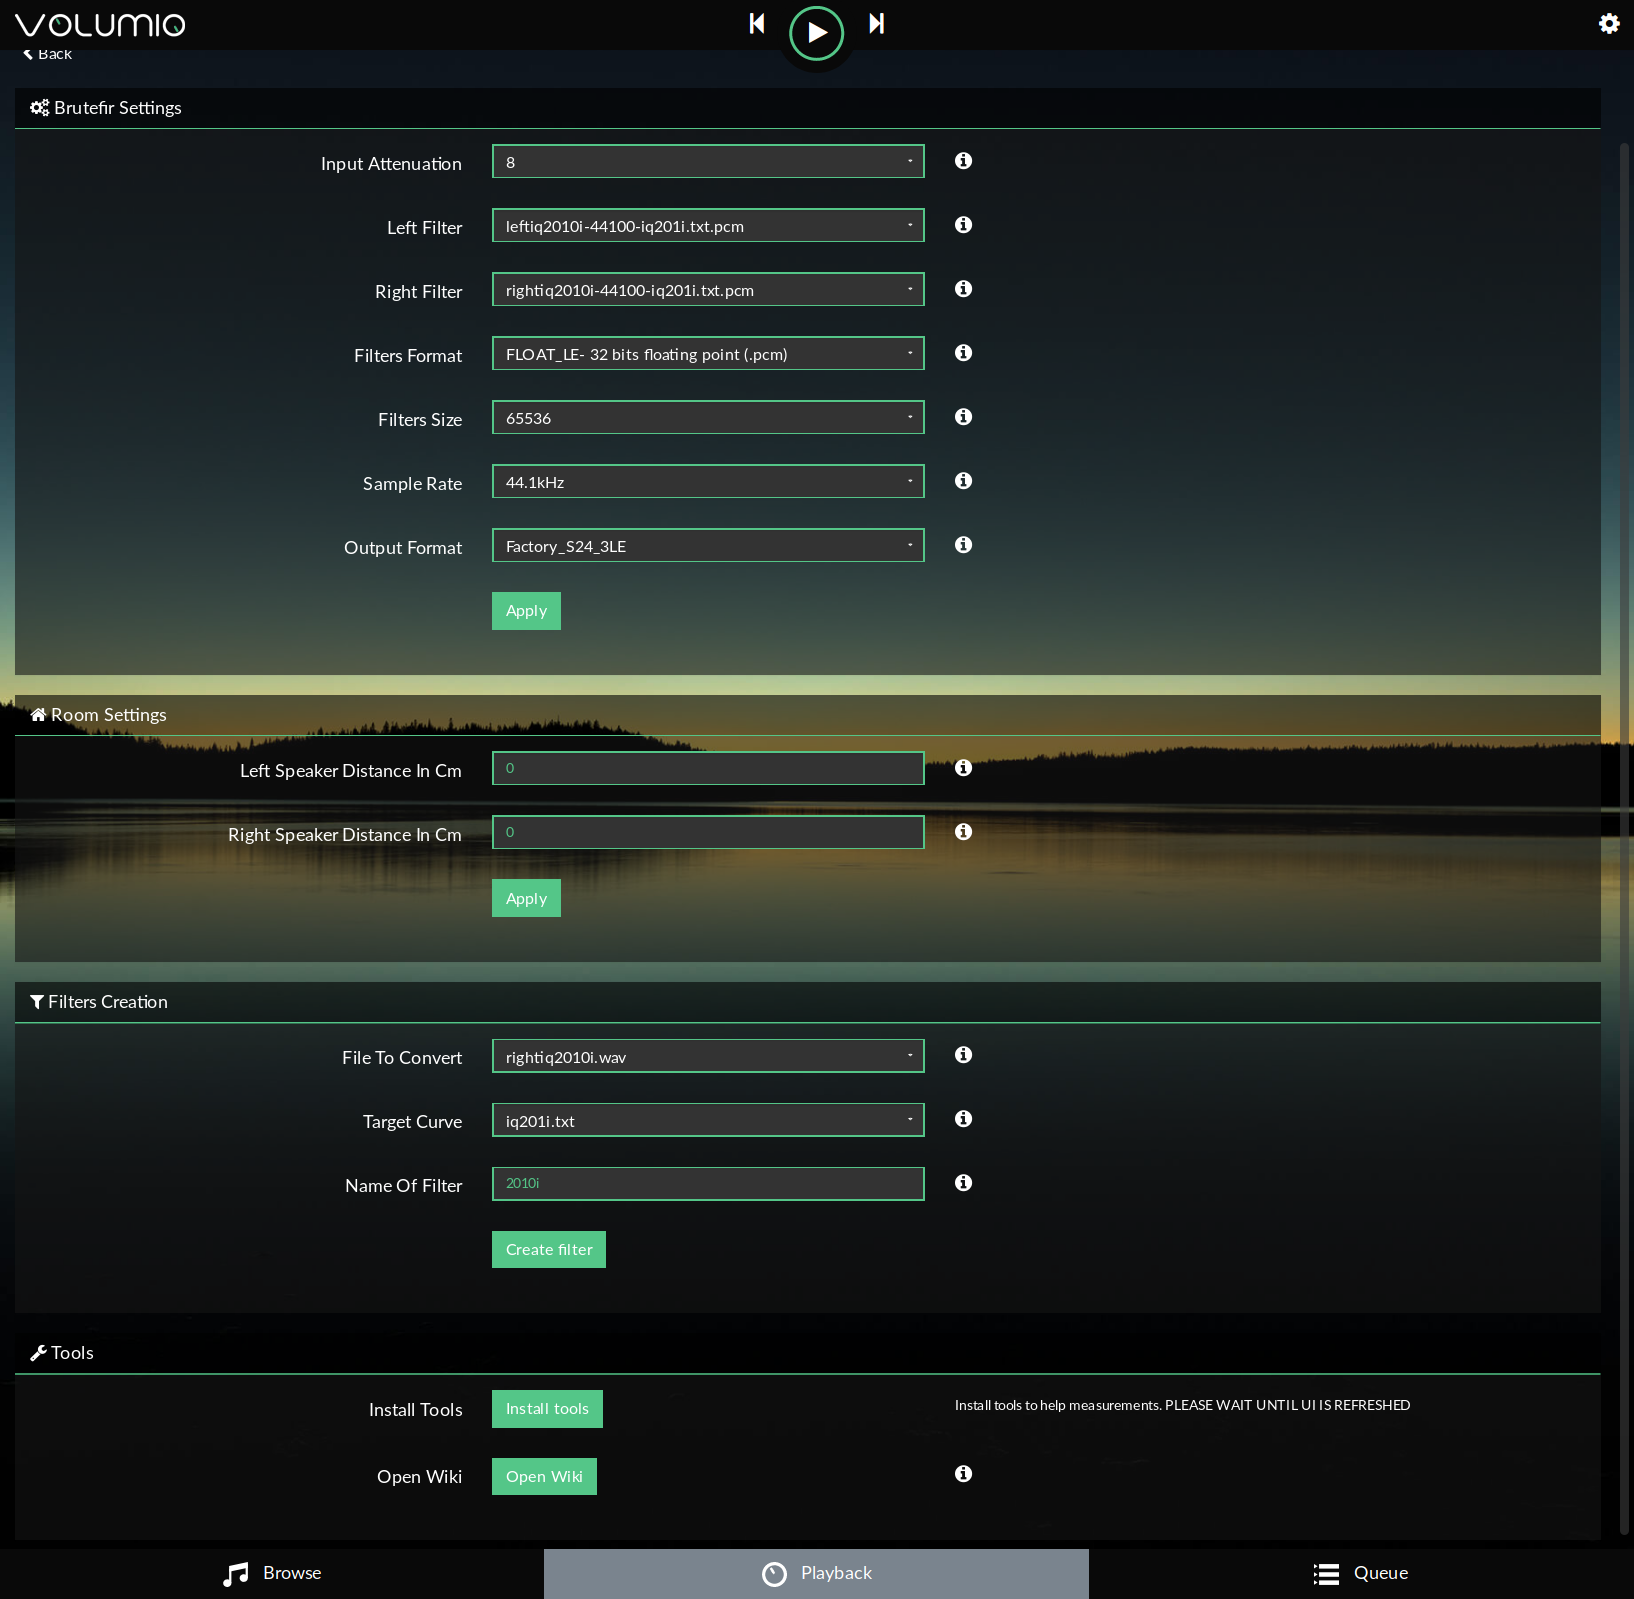
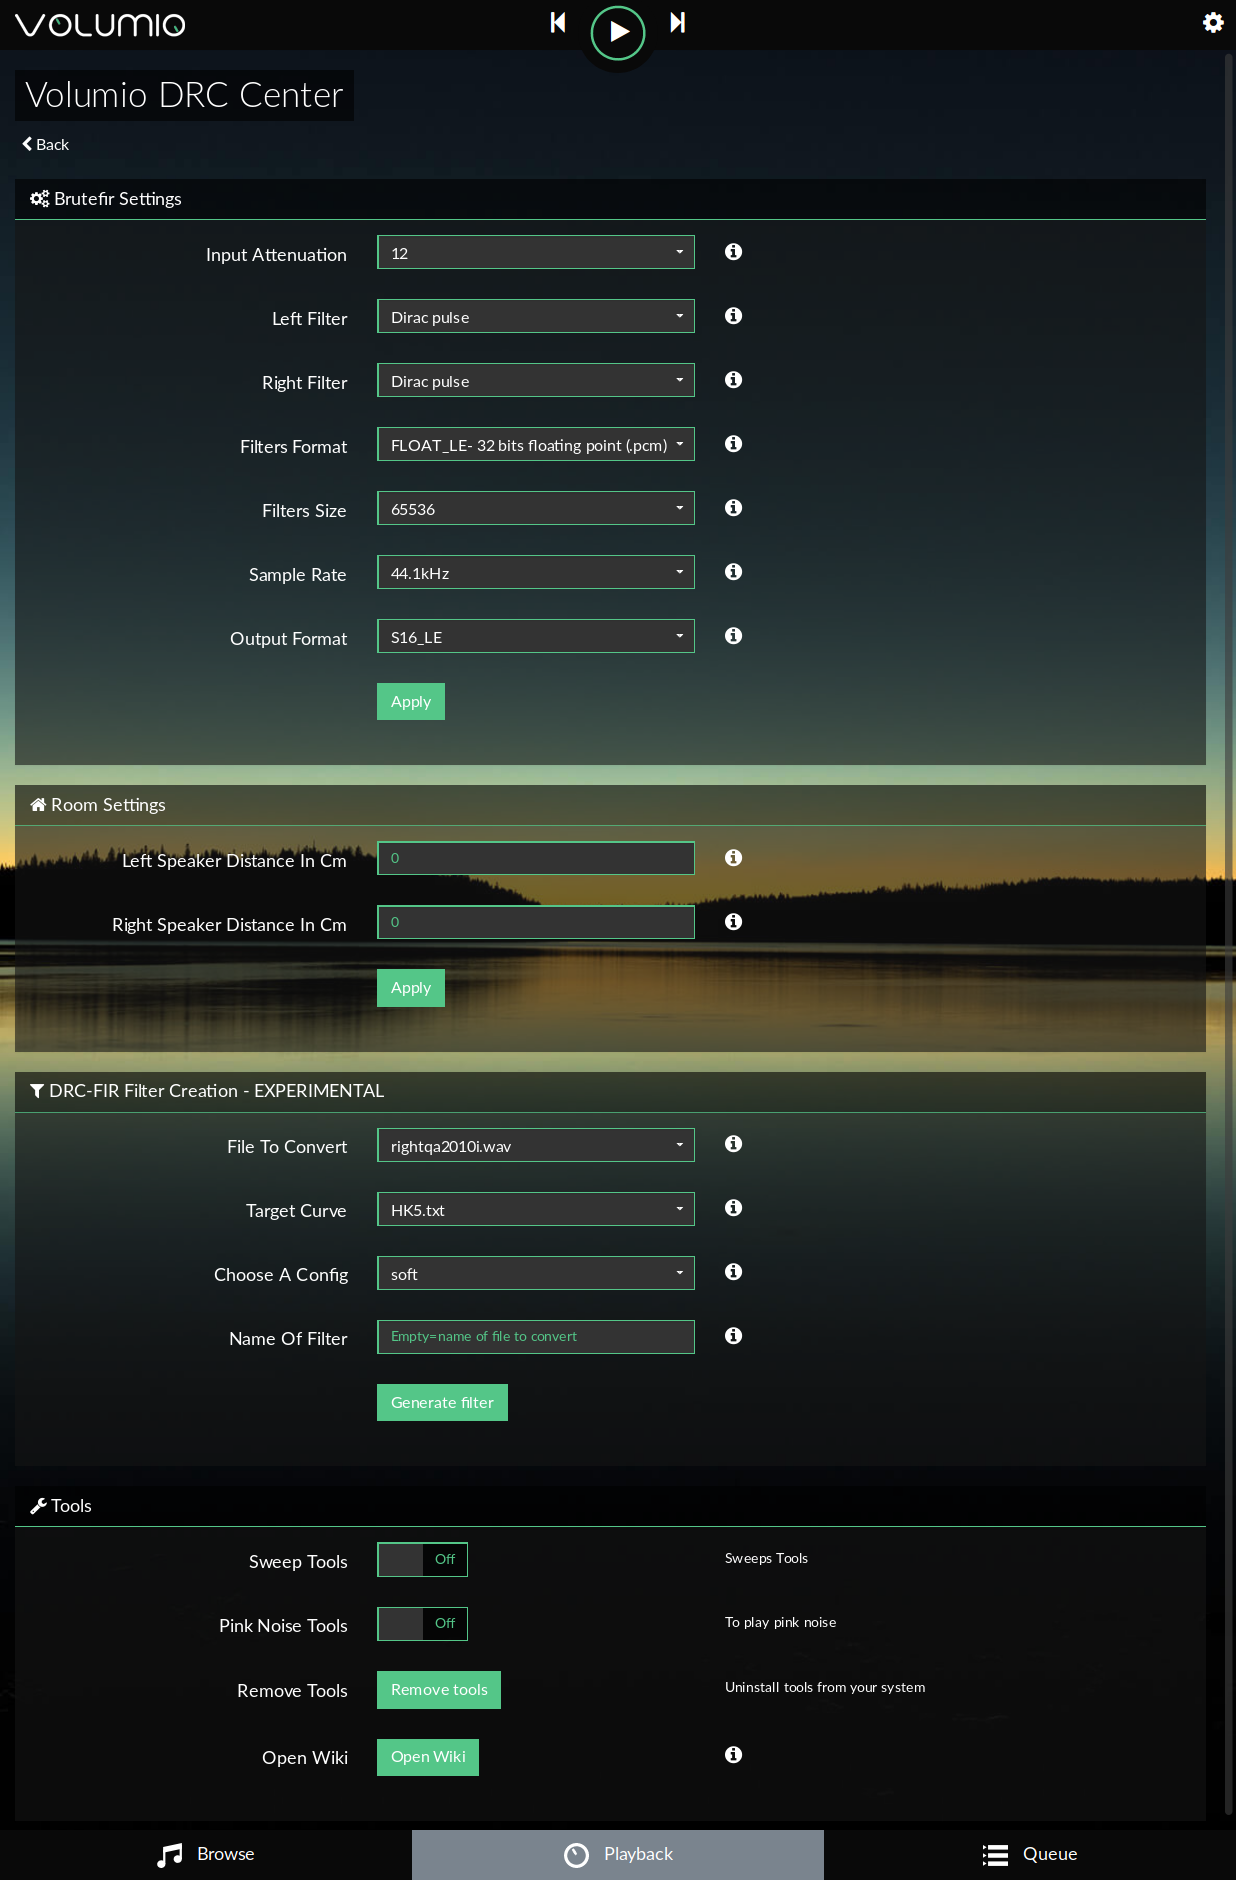
brutefir - filters creation

diff --git a/docs/06_Plugins_User_Manuals/00_brutefir/03_Making_filters.md b/docs/06_Plugins_User_Manuals/00_brutefir/03_Making_filters.md
@@ -1,6 +1,11 @@
 ## Making Filters
 
-When measurement(s) is exported you have 2 possibilities. You can create initial EQ filter in REW and import it into rePhase as a starting point or you can directly go in rephase and start creating filter from scratch.
+When measurement(s) is exported, as we seen, you have severals possibilities.
+- __Variant 1__ Create initial EQ filter in REW and import it into rePhase as a starting point
+- __Variant 2__ Go in rephase and start creating filter from scratch.
+- __Variant 3__ Use the filter creation tools from the plugin and create filter using DRC-FIR.
+
+__General tips__
 
 For best results with Volumio and BruteFIR I recommend sampling rate of __96000__ and __65536__ filtersize/taps.
 
@@ -23,7 +28,7 @@ When doing EQ in rePhase try to follow these simple guidelines:
 
 * On the right side of EQ window under Equaliser choose `rePhase`
 
-* Under Target settings configure settings for your speakers
+* Under Target settings configure settings for your speakers.
 
 * Under Target settings press`Set target level` to have REW set the target level or configure it manually
 
@@ -55,5 +60,38 @@ When doing EQ in rePhase try to follow these simple guidelines:
 * Hit `generate` to generate and save FIR filter
 
 * Save your work under `File/Save settings`
+
+### Variant 3 : Using DRC-FIR tools from the plugin
+
+Creating filter with automatic tools in the plugin is easy. You have too put the exported impluse from REW in the shared folder of Volumio.
+
+From your Windows files explorer, access to it by typing `file://ipadressofvolumio`
+
+Then, go in `brutefirfilter/filter-sources` and put your Wav file here.
+
+Go in the plugin setting page and in filter creation section, choose the file as file to convert.
+
+Choose a target curve. 2 samples are provided with the plugin.
+This file define how the corrected curve should look like. You can create or adjust one of the sample given.
+These files are placed in shared folder of Volumio under `brutefirfilter/target-sources`
+
+Choose a config.
+
+We advice to start with __'soft'__ and see how it behaves..
+
+You can give a name for your filter, or leaave empty the field to re-use the ipmort name.
+
+The plugin will add `samplerate+config+target-curves+.pcm` to the name.
+
+- So, if name is __left__ the generated filter will be __left-44.1kHz-soft-hk5.pcm__
+
+Sample rate is taken from the value set in the plugin.
+## Warning : Do not set above 96Khz
+
+Press `Create filter` and wait until the page is refreshed. Do the the samee for both channels.
+
+<img src="./img/filter-creation-menu.png">
+
+
 
 ### Now, get ready to test your filter!

diff --git a/docs/06_Plugins_User_Manuals/00_brutefir/01_Preparing_your_system.md b/docs/06_Plugins_User_Manuals/00_brutefir/01_Preparing_your_system.md
@@ -10,20 +10,23 @@ Try to play a track, if the music is playing, go to the next step.
 
 If an error occurs go in plugin settings
 
-__Main Interface__
+
+and try to change __output format__ . It is a DAC dependant parameter.
+
+
+__Main Interface of the plugin__
 
 <img src="./img/general_plugin_settings.png">
 _plugin main interface_
 
-and try to change __output format__ . It is a DAC dependant parameter.
-
 When it's ok, try to play a track.
 
-You can now test with a filter, just select __Left Filter__ and __Right filter__ in plugin settings with one of the provided filter:
+You can now test with a filter, just select __demo-left.txt__ and __demo-right.txt__ in plugin settings:
 (few filters to test are installed by the plugin, they are placed in `/data/INTERNAL/brutefirfilter`)
-* `demo-left ` and `demo-right`
 
 <img src="./img/select_filter.png">
+
+Select ```text- 32/64 bits floats line``` as filter format with these filters.
 
 and press `Apply` (It can be done while playing)
 

diff --git a/docs/06_Plugins_User_Manuals/00_brutefir/02_Making_Measurment.md b/docs/06_Plugins_User_Manuals/00_brutefir/02_Making_Measurment.md
@@ -1,18 +1,21 @@
-## Create your own filters
+## Making measurements
 
-There is sevral steps to do that :
+One of the first step to make DRC, is to have  a good measurement of caractheristic of your system.
+
+There is several steps to do that :
 
 * playing sweep file or pink noise using Tools in the plugin.
 * Recording signal while playing (with REW)
 
-
+__And__
 * Modifing the result (with REPHASE) and generating filters.
 
-__or__
+__OR__
 
 * Use filter creation in the plugin
 
 __And__
+
 * Using this filter in Volumio through the Brutefir plugin.
 
 

diff --git a/docs/06_Plugins_User_Manuals/00_brutefir/04_Using_filters_in_Volumio.md b/docs/06_Plugins_User_Manuals/00_brutefir/04_Using_filters_in_Volumio.md
@@ -2,11 +2,18 @@
 
 Now it's time to test your filters. To do that :
 
+If you made your filters with RePhase :
 * Place them in the shared folder of Volumio under `brutefirfilters`
+
+If you use DRC-FIR, they are already available in the selector.
 
 * Then, in the pluign settings, select left and right filter
 
+* Select the filter format.
+
 <img src="./img/using_filter_in_volumio.png">
+
+
 
 * Press apply and play what you want!
 

diff --git a/docs/_index.md b/docs/_index.md
@@ -2,7 +2,7 @@
 
 &nbsp;
 ## Welcome to Volumio's documentation
-#### _(update April 6th 2019)_
+#### _(update April 20th 2019)_
 
 
 __Volumio__ is a free and Open Source Linux Distribution, designed and fine-tuned exclusively for music playback. It runs on a variety of devices, typically small and cheap computers like the Raspberry PI, but also on low power PCs, notebooks or thin clients.
